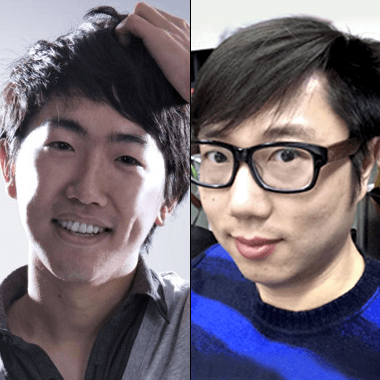
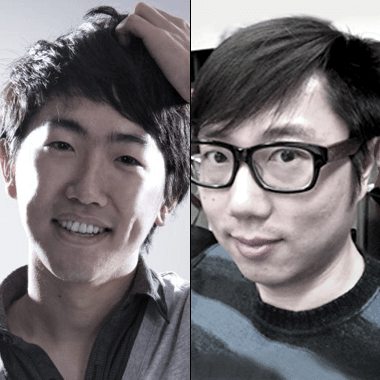
前端场不在主会场，修改网站文字&高、花照片做单色处理

diff --git a/index.html b/index.html
@@ -33,7 +33,7 @@
 					Design for Touch，指尖上的设计，由携程主办的无线用户体验大会，于2014年6月28日（周六）在上海龙之梦万丽酒店全天进行。大会邀请到用户体验、交互/视觉设计、前端等领域里的嘉宾来分享移动互联网行业里的经验。
 				</p>
 				<p>
-					大会上午为主题演讲，下午前端主题分享在主会场，设计工作坊和视觉主题分享在分会场同时段并列进行。全天票价150元，下午选择前端场将特别优惠为返还100元携程礼品卡。
+					大会上午为主题演讲，下午四场设计工作坊及前端、视觉主题分享在分会场同时段并列进行。全天票价150元，下午选择前端场将特别优惠为返还100元携程礼品卡。
 				</p>
 			</div>
 			<div class="btn"><input type="button" value="售票即将开始" /></div>
